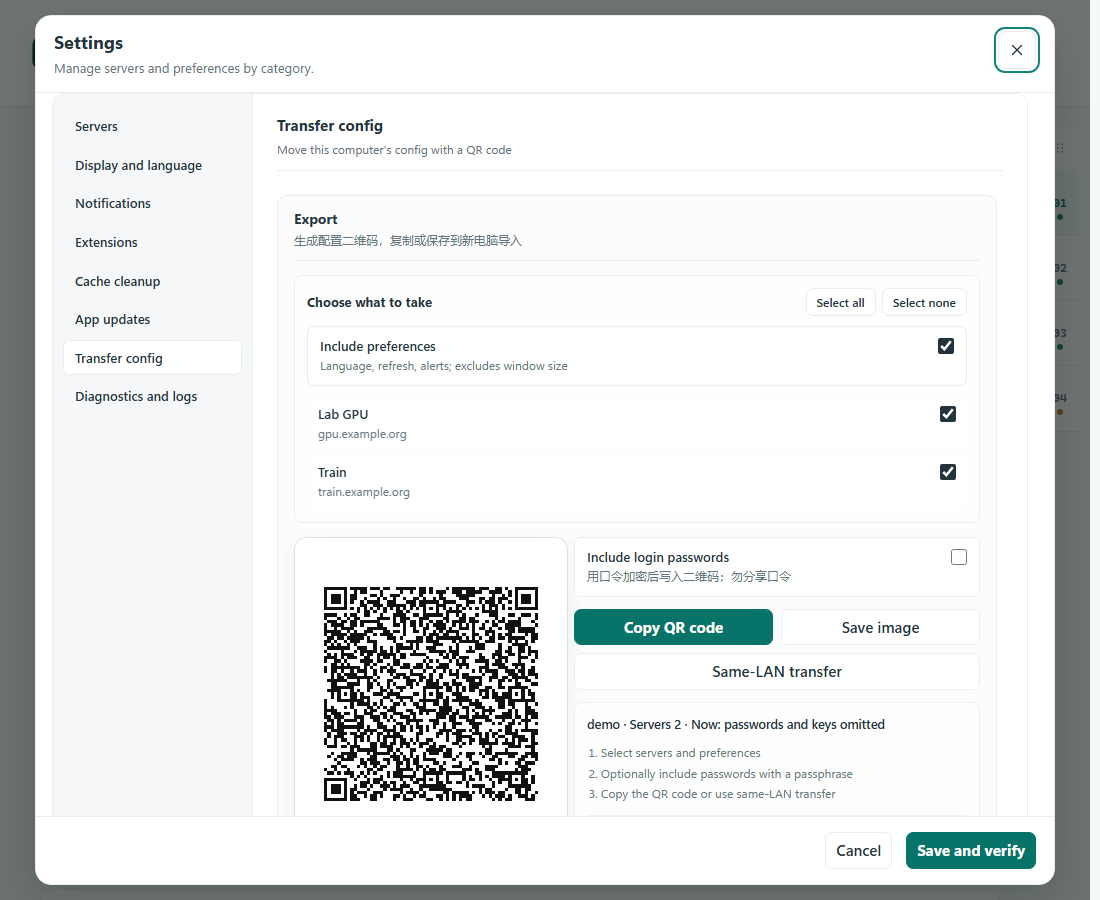
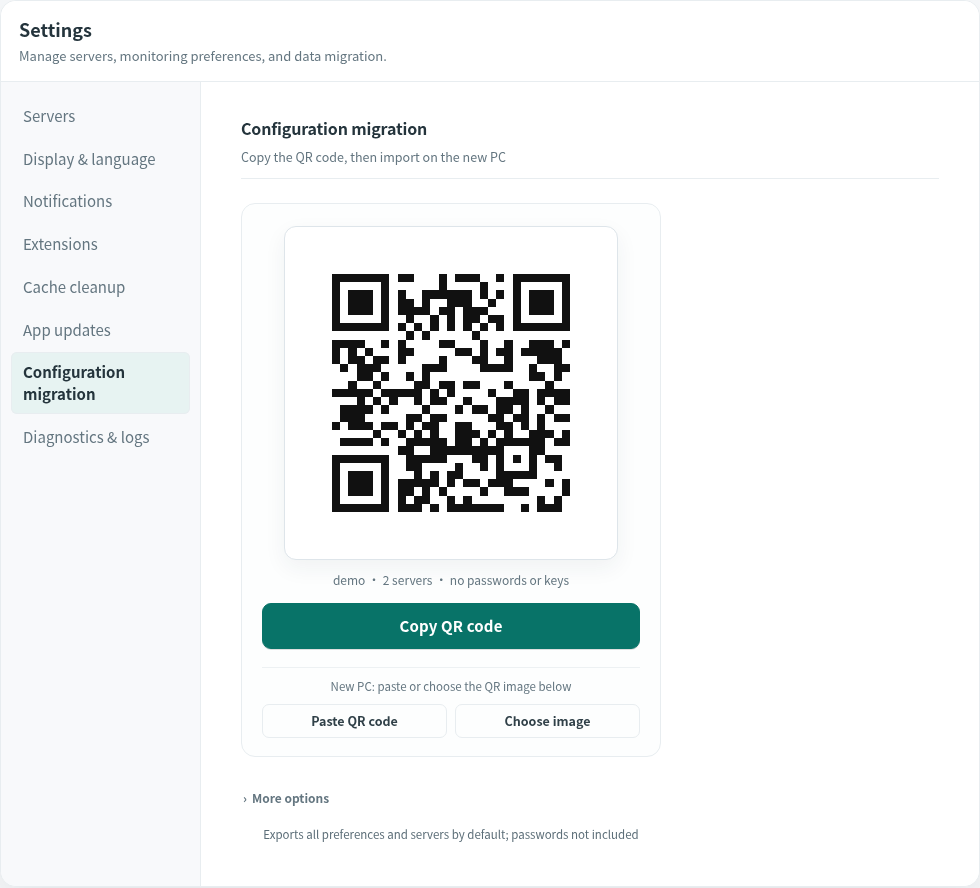
docs+i18n: refresh migrate README shots; drop stale EN migrate steps; shorten empty-state copy
- Replace settings-migrate-{zh,en}.png (and underscore aliases) with foolproof QR-first UI
- Point English README at the EN screenshot
- Remove leftover old migrate-step English dictionary entries no longer in the UI
- Shorten empty-state / onboarding strings (favorites, watches, add-server hints)

diff --git a/src/vram_radar/web/localization.js b/src/vram_radar/web/localization.js
@@ -3,10 +3,7 @@
 
   const ENGLISH = new Map([
     ['开始传送', 'Start transfer'],
-    ['勾选 → 复制二维码 → 新电脑导入', 'Select → copy QR → import on new PC'],
     ['保护密码', 'Protection password'],
-    ['同一 Wi‑Fi 传送（可选）', 'Same Wi‑Fi transfer (optional)'],
-    ['同一 Wi‑Fi 链接（可选）', 'Same Wi‑Fi link (optional)'],
     ['默认不含登录密码；可选保护密码加密后写入。', 'No login passwords by default; optional encrypted export.'],
     ['PuTTY Session 与 WSL 中的', 'PuTTY sessions and WSL '],
     ['SSH 配置多为无扩展名的', 'SSH config is usually an extensionless '],
@@ -584,12 +581,12 @@
     ['仅 GPU', 'GPU only'],
     ['收藏整台', 'Favorite whole server'],
     ['含收藏卡', 'Has favorite GPUs'],
-    ['还没有收藏', 'No favorites yet'],
+    ['暂无收藏', 'No favorites'],
     ['收藏这台服务器', 'Favorite this server'],
     ['取消收藏这台服务器', 'Unfavorite this server'],
     ['只看收藏 GPU', 'Favorite GPUs only'],
     ['显示全部 GPU', 'Show all GPUs'],
-    ['当前没有收藏的 GPU', 'No favorited GPUs on this server'],
+    ['暂无收藏 GPU', 'No favorited GPUs'],
     ['当前不是正式安装版，无法应用内更新，将打开 GitHub 发布页', 'This is not a formal installed build, so in-app update is unavailable. Opening the GitHub releases page.'],
   ['当前无法应用内更新，将打开 GitHub 发布页', 'In-app update is unavailable; opening the GitHub releases page.'],
   ['将打开 GitHub 发布页下载安装包', 'The GitHub releases page will open so you can download the installer.'],
@@ -671,8 +668,8 @@
     ['发现新版本', 'Update available'],
     ['已关注任务', 'Watched tasks'],
     ['只在任务结束时提醒', 'Notify only when a task finishes'],
-    ['还没有关注任务', 'No watched tasks yet'],
-    ['可在任务表中逐项关注。', 'Watch tasks individually from a task table.'],
+    ['暂无关注任务', 'No watched tasks'],
+    ['可在任务表中关注。', 'Watch from the task table.'],
     ['项', 'items'],
     ['移除', 'Remove'],
     ['收藏的资源已空闲。', 'Favorited resources are free.'],
@@ -728,8 +725,6 @@
     ['导出本机配置', 'Export this computer'],
   ['导出文件', 'Export file'],
     ['导入', 'Import'],
-    ['勾选内容，复制二维码', 'Select what to take, then copy the QR code'],
-    ['粘贴或选择二维码图片（会替换当前配置）', 'Paste or choose a QR image (replaces current config)'],
     ['保护密码至少 8 位', 'Protection password must be at least 8 characters'],
     ['没有可导出的登录密码', 'No login passwords to include'],
     ['密码信息无效', 'Password info is invalid'],
@@ -771,20 +766,14 @@
 
     ['未导出密码', 'Passwords not included'],
     ['含密码（已加密）', 'Encrypted passwords'],
-    ['二维码带到新电脑', 'QR code to a new PC'],
     ['正在准备…', 'Preparing…'],
     ['设好保护密码后再生成含密码的二维码', 'Set a protection password, then make a QR with passwords'],
     ['当前：不含密码和私钥', 'Now: passwords and keys not included'],
     ['当前：含密码（已加密）', 'Now: encrypted passwords included'],
     ['当前：含密码和私钥（已加密）', 'Now: encrypted passwords and keys included'],
-    ['是否包含登录密码', 'Include login passwords?'],
-    ['复制或保存二维码', 'Copy or save the QR code'],
     ['在新电脑粘贴或导入', 'Paste or import on the new computer'],
-    ['改选项后，二维码会自动更新', 'The QR code updates when options change'],
     ['导出说明', 'Export tips'],
-    ['含服务器和偏好，不含密码', 'Servers and preferences; no passwords'],
     ['导出', 'Export'],
-    ['同时导出已保存的登录密码', 'Also export saved login passwords'],
     ['用口令加密；请勿分享口令', 'Encrypted with a passphrase; do not share it'],
     ['保护密码（至少 8 位）', 'Protection password (at least 8 characters)'],
     ['仅用于加密本次导出', 'Only used to encrypt this export'],
@@ -795,12 +784,10 @@
     ['导入', 'Import'],
     ['导入会替换当前配置。', 'Import replaces the current config.'],
     ['粘贴二维码', 'Paste QR code'],
-    ['VR1:… 或完整迁移文件内容', 'VR1:… or full transfer file content'],
     ['口令', 'Passphrase'],
     ['导出时设置的保护密码', 'Protection password set at export'],
     ['选择图片', 'Choose image'],
     ['选择图片', 'Choose image'],
-    ['不含登录密码和私钥', 'Passwords and private keys not included'],
     ['请输入保护密码以导入', 'Enter the protection password to import'],
         ['导出密码时请设置保护密码', 'Set a protection password before exporting passwords'],
     ['当前配置没有可读取的 SSH 私钥可导出', 'This config has no readable SSH private key to export'],
@@ -812,18 +799,14 @@
     ['已含密码（已加密）', 'Encrypted passwords included'],
     ['请先设置保护密码', 'Set a protection password first'],
     ['两次保护密码不一致', 'Protection passwords do not match'],
-    ['含密码或私钥时，请只在可信设备间传输。', 'If it includes passwords or keys, share only with trusted devices.'],
     ['太大时改用文件', 'Use a file if too large'],
     ['含 SSH 私钥', 'Include SSH private keys'],
     ['需设保护密码；勿外传', 'Requires a protection password; do not share'],
     ['含登录密码', 'Include passwords'],
-    ['默认不含登录密码和私钥', 'No passwords or private keys by default'],
     ['正在生成…', 'Generating…'],
     ['导出密码时，保护密码至少 8 位', 'Protection password must be at least 8 characters when exporting passwords'],
     ['生成失败', 'Could not generate'],
-    ['复制二维码，到新电脑导入', 'Copy the QR code and import it on the new computer'],
     ['无法生成二维码，请改为保存文件', 'QR code unavailable; save a file instead'],
-    ['复制二维码，到新电脑导入', 'Copy the QR code and import it on the new computer'],
     ['配置较大，二维码装不下', 'Config is too large for a QR code'],
     ['已保存文件', 'File saved'],
     ['已复制二维码', 'QR code copied'],
@@ -839,7 +822,6 @@
     ['无法读取二维码图片', 'Could not read QR image'],
     ['图片中未找到二维码', 'No QR code found in the image'],
     ['读取失败', 'Read failed'],
-    ['带走这些', 'Take these'],
     ['全选', 'Select all'],
     ['全不选', 'Select none'],
     ['偏好设置', 'Preferences'],
@@ -861,11 +843,7 @@
     ['应用偏好设置', 'Apply preferences'],
     ['语言、刷新、通知等', 'Language, refresh, and alerts'],
     ['确认导入', 'Confirm import'],
-    ['粘贴或选择二维码', 'Paste or choose a QR code'],
     ['含密码时只在可信设备间使用，并尽快导入；过期后失效。', 'With passwords: use only on trusted devices, import promptly; expires after the set time.'],
-    ['勾选服务器和偏好', 'Select servers and preferences'],
-    ['需要时勾选密码并设口令', 'Optionally include passwords'],
-    ['复制二维码，或用同一 Wi‑Fi 传送', 'Copy the QR code, or send on the same Wi‑Fi'],
     ['剩余时间', 'Time left'],
     ['分钟', 'min'],
     ['不含偏好', 'Preferences not included'],
@@ -939,8 +917,6 @@
     ['导出本机配置', 'Export this computer'],
   ['导出文件', 'Export file'],
     ['导入', 'Import'],
-    ['勾选内容，复制二维码', 'Select what to take, then copy the QR code'],
-    ['粘贴或选择二维码图片（会替换当前配置）', 'Paste or choose a QR image (replaces current config)'],
     ['保护密码至少 8 位', 'Protection password must be at least 8 characters'],
     ['没有可导出的登录密码', 'No login passwords to include'],
     ['密码信息无效', 'Password info is invalid'],
@@ -982,20 +958,14 @@
 
     ['未导出密码', 'Passwords not included'],
     ['含密码（已加密）', 'Encrypted passwords'],
-    ['二维码带到新电脑', 'QR code to a new PC'],
     ['正在准备…', 'Preparing…'],
     ['设好保护密码后再生成含密码的二维码', 'Set a protection password, then make a QR with passwords'],
     ['当前：不含密码和私钥', 'Now: passwords and keys not included'],
     ['当前：含密码（已加密）', 'Now: encrypted passwords included'],
     ['当前：含密码和私钥（已加密）', 'Now: encrypted passwords and keys included'],
-    ['是否包含登录密码', 'Include login passwords?'],
-    ['复制或保存二维码', 'Copy or save the QR code'],
     ['在新电脑粘贴或导入', 'Paste or import on the new computer'],
-    ['改选项后，二维码会自动更新', 'The QR code updates when options change'],
     ['导出说明', 'Export tips'],
-    ['含服务器和偏好，不含密码', 'Servers and preferences; no passwords'],
     ['导出', 'Export'],
-    ['同时导出已保存的登录密码', 'Also export saved login passwords'],
     ['用口令加密；请勿分享口令', 'Encrypted with a passphrase; do not share it'],
     ['保护密码（至少 8 位）', 'Protection password (at least 8 characters)'],
     ['仅用于加密本次导出', 'Only used to encrypt this export'],
@@ -1006,12 +976,10 @@
     ['导入', 'Import'],
     ['导入会替换当前配置。', 'Import replaces the current config.'],
     ['粘贴二维码', 'Paste QR code'],
-    ['VR1:… 或完整迁移文件内容', 'VR1:… or full transfer file content'],
     ['口令', 'Passphrase'],
     ['导出时设置的保护密码', 'Protection password set at export'],
     ['选择图片', 'Choose image'],
     ['选择图片', 'Choose image'],
-    ['不含登录密码和私钥', 'Passwords and private keys not included'],
     ['请输入保护密码以导入', 'Enter the protection password to import'],
     ['导出私钥前请先勾选「含登录密码」', 'Turn on Include login passwords before exporting private keys'],
     ['没有可读的 SSH 私钥可导出', 'No readable SSH private keys to export'],
@@ -1020,18 +988,14 @@
     ['已含密码（已加密）', 'Encrypted passwords included'],
     ['请先设置保护密码', 'Set a protection password first'],
     ['两次保护密码不一致', 'Protection passwords do not match'],
-    ['含密码或私钥时，请只在可信设备间传输。', 'If it includes passwords or keys, share only with trusted devices.'],
     ['太大时改用文件', 'Uses a file if too large'],
     ['含 SSH 私钥', 'Include SSH private keys'],
     ['需设保护密码；勿外传', 'Needs a protection password; do not share it'],
     ['含登录密码', 'Include login passwords'],
-    ['默认不含登录密码和私钥', 'Passwords and private keys are off by default'],
     ['正在生成…', 'Generating…'],
     ['导出密码时，保护密码至少 8 位', 'Protection password must be at least 8 characters when exporting passwords'],
     ['生成失败', 'Could not generate'],
-    ['复制二维码，到新电脑导入', 'Copy the QR code and import it on the new computer'],
     ['无法生成二维码，请改为保存文件', 'QR code unavailable; save a file instead'],
-    ['复制二维码，到新电脑导入', 'Copy the QR code and import it on the new computer'],
     ['配置较大，二维码装不下', 'Config is too large for a QR code'],
     ['已保存文件', 'File saved'],
     ['已复制二维码', 'QR code copied'],
@@ -1499,13 +1463,13 @@
     // Short primary feedback; full import diagnostics remain available on demand.
     ['已收起当前页面。', 'Page collapsed.'],
     ['已收起说明和高级设置。', 'Help and advanced settings collapsed.'],
-    ['添加服务器后即可查看 GPU 状态。', 'Add a server to view GPU status.'],
+    ['添加服务器后即可查看。', 'Add a server to view status.'],
     ['管理服务器和界面设置。', 'Manage servers and appearance.'],
     ['正在查找本机 SSH 配置…', 'Looking for local SSH configuration…'],
     ['正在读取配置文件…', 'Reading the configuration file…'],
     ['没有找到可导入的服务器。', 'No servers found to import.'],
     ['检查下方列表，再点击“保存并开始验证”。', 'Review the list below, then click Save and start validation.'],
-    ['请换一个配置文件，或手动添加服务器。', 'Choose another configuration file or add a server manually.'],
+    ['请换配置文件或手动添加。', 'Choose another config or add a server.'],
     ['多个配置文件不支持启动时自动同步。', 'Startup sync is unavailable for multiple configuration files.'],
     ['导入详情', 'Import details'],
     ['默认提醒我的 GPU 任务结束。', 'Notify me when my GPU tasks finish.'],

diff --git a/src/vram_radar/web/app.js b/src/vram_radar/web/app.js
@@ -680,7 +680,7 @@ function renderLiveTable(server) {
     ? `<div class="live-gpu-toolbar"><button class="button compact-button toggle-favorite-gpu-only${onlyFavorites ? ' active' : ''}" type="button" data-server-id="${escapeHtml(serverId)}" aria-pressed="${onlyFavorites}" title="${escapeHtml(localizedText(onlyFavorites ? '显示全部 GPU' : '只看收藏 GPU'))}">${escapeHtml(localizedText('只看收藏 GPU'))}</button></div>`
     : '';
   const emptyRow = onlyFavorites && !visibleGpus.length
-    ? `<tr class="gpu-filter-empty"><td colspan="6">${escapeHtml(localizedText('当前没有收藏的 GPU'))}</td></tr>`
+    ? `<tr class="gpu-filter-empty"><td colspan="6">${escapeHtml(localizedText('暂无收藏 GPU'))}</td></tr>`
     : '';
   const memoryTable = `${toolbar}<div class="table-wrap" role="region" aria-label="GPU 实时显存，可横向滚动"><table><caption class="sr-only">GPU 实时显存</caption><thead><tr><th scope="col">GPU</th><th scope="col">卡型</th><th scope="col">已用显存</th><th scope="col">空闲显存</th><th scope="col">利用率</th><th scope="col">温度</th></tr></thead><tbody>${visibleGpus.map(gpu => `<tr class="gpu-row" data-server-id="${escapeHtml(serverId)}" data-gpu-index="${escapeHtml(gpu.gpu_index)}"><td class="gpu-index-cell">${renderFavoriteGpuButton(serverId, gpu.gpu_index)}<span>GPU ${escapeHtml(gpu.gpu_index)}</span></td><td>${escapeHtml(gpu.gpu_type)}</td><td class="memory-cell"><div class="memory-values"><strong>${number(gpu.memory_used_gib)} GiB</strong><span>总量 ${number(gpu.memory_total_gib)} GiB</span></div>${memoryTrack(gpu.memory_used_gib, gpu.memory_total_gib)}</td><td>${number(gpu.memory_free_gib)} GiB</td><td>${gpu.utilization_percent == null ? '未知' : `${number(gpu.utilization_percent)}%`}</td><td>${gpu.temperature_c == null ? '未知' : `${number(gpu.temperature_c)} °C`}</td></tr>`).join('')}${emptyRow}</tbody></table></div>`;
   return memoryTable + renderCpuOverview(server) + renderDirectProcessModule(server);
@@ -2562,7 +2562,7 @@ async function applyCodexSettings(executable = currentProfile?.codex_executable 
 function renderNavigatorTaskWatches() {
   const watches = currentProfile?.task_completion_watches || [];
   const marker = count => `<span class="navigator-watch-marker" aria-hidden="true">${icon('bell')}<small>${number(count)}</small></span>`;
-  if (!watches.length) return `<div class="navigator-watch-empty">${marker(0)}<span class="navigator-watch-empty-copy">${escapeHtml(localizedText('还没有关注任务'))}<small>${escapeHtml(localizedText('可在任务表中逐项关注。'))}</small></span></div>`;
+  if (!watches.length) return `<div class="navigator-watch-empty">${marker(0)}<span class="navigator-watch-empty-copy">${escapeHtml(localizedText('暂无关注任务'))}<small>${escapeHtml(localizedText('可在任务表中关注。'))}</small></span></div>`;
   return `<details class="navigator-task-watches"${taskWatchesExpanded ? ' open' : ''}><summary>${marker(watches.length)}<span class="navigator-watch-summary-copy">${escapeHtml(localizedText('已关注任务'))}</span><span class="summary-action"><span class="when-closed">${escapeHtml(localizedText('展开'))}</span><span class="when-open">${escapeHtml(localizedText('收起'))}</span></span></summary><div class="navigator-task-watch-body"><div class="task-watch-heading"><span>${escapeHtml(localizedText('只在任务结束时提醒'))}</span><button class="clear-task-watches button compact-button" type="button">${escapeHtml(localizedText('全部移除'))}</button></div>${watches.map(watch => `<div class="task-watch-item"><span><strong>${escapeHtml(watch.label)}</strong><small>${escapeHtml(watch.server_id)} · ${escapeHtml(watch.task_kind === 'slurm' ? `${localizedText('任务')} ${watch.task_id}` : (watch.task_kind === 'local_process' ? `${localizedText('当前环境 PID')} ${watch.task_id}` : `PID ${watch.task_id}`))}${watch.owner ? ` · ${escapeHtml(watch.owner)}` : ''}</small></span><button class="remove-task-watch button compact-button" type="button" data-server-id="${escapeHtml(watch.server_id)}" data-task-key="${escapeHtml(watch.task_key)}" data-task-kind="${escapeHtml(watch.task_kind)}" data-task-id="${escapeHtml(watch.task_id)}" data-task-label="${escapeHtml(watch.label)}" data-task-owner="${escapeHtml(watch.owner || '')}" data-task-owner-scope="${escapeHtml(watch.owner_scope || 'unknown')}">${escapeHtml(localizedText('移除'))}</button></div>`).join('')}</div></details>`;
 }
 
@@ -3371,7 +3371,7 @@ function renderServerNavigator(servers) {
     const hasAnyFavorite = favoriteServerIds.size > 0 || favoriteGpuServerIds.size > 0;
     ui.serverNavigatorEmpty.textContent = hasAnyFavorite
       ? localizedText('没有匹配的服务器')
-      : localizedText('还没有收藏');
+      : localizedText('暂无收藏');
   } else if (allMatches.length === 0) {
     ui.serverNavigatorEmpty.textContent = localizedText('没有匹配的服务器');
   }
@@ -5098,7 +5098,7 @@ function setSettingsMode(mode) {
   ui.dialogKicker.textContent = onboarding ? '首次使用引导' : '';
   ui.dialogTitle.textContent = onboarding ? '欢迎使用显存雷达' : '设置';
   ui.dialogDescription.textContent = onboarding
-    ? '添加服务器后即可查看 GPU 状态。'
+    ? '添加服务器后即可查看。'
     : '按左侧分类管理服务器与界面。';
   ui.settingsDisclosureTools.hidden = onboarding;
   ui.closeSettings.hidden = onboarding;
@@ -5225,7 +5225,7 @@ function renderImportFeedback(count, paths = [], warnings = [], removedCount = 0
     : '没有找到可导入的服务器。';
   const nextStep = count
     ? '检查下方列表，再点击“保存并验证”。'
-    : '请换一个配置文件，或手动添加服务器。';
+    : '请换配置文件或手动添加。';
   const details = [
     ...(paths.length > 1 ? [`已合并读取 ${paths.length} 个配置文件。`, '多个配置文件不支持启动时自动同步。'] : []),
     ...(removedCount ? [`此前移除的 ${removedCount} 台服务器仍未添加。`] : []),

diff --git a/README.md b/README.md
@@ -59,7 +59,7 @@ Also available as [WebM](docs/assets/readme/vram-radar-demo.webm). Captions are 
 - **Leaner memory** — hover cards release on leave; WebView runs lighter with a capped cache.
 - **Gentler update checks** — longer backoff when the network is slow or offline.
 
-![Transfer config](docs/assets/readme/settings-migrate-zh.png)
+![Transfer config](docs/assets/readme/settings-migrate-en.png)
 
 
 ### GPU monitoring
